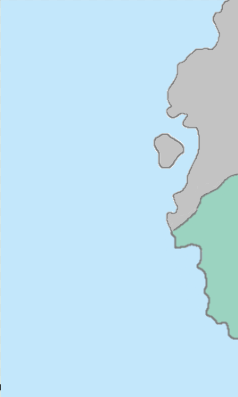
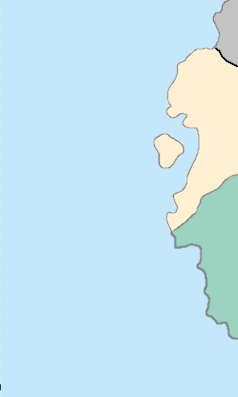
version beta 1.1

Changed region(s): [[0.7059, 0.1209, 1.0, 0.5743], [0.6471, 0.3325, 0.7647, 0.4232]]

diff --git a/pagechunk.js b/pagechunk.js
@@ -1,10 +1,15 @@
-'use strict';(function(){function r(a,c){c=10**c;return Math.round(a*c)/c}function x(a,c,e,h){b.lineWidth=3;b.strokeStyle="#000";b.beginPath();b.arc(a,c,7,0,2*Math.PI,!1);b.stroke();b.fill();if(e){b.font="15px Arial";e=b.measureText(h.g||"").width;e+=10;b.fillStyle="#fff";var n=.5*e;a=a-n-3.5;c-=48;b.fillRect(a,c+1,e,22);b.lineWidth=0;e=a+(n-3.5);n=c+22;var A=[[0,0],[10,0],[5,10]];b.beginPath();var y=0,p;for(p of A)0==y?b.moveTo(p[0]+e,p[1]+n):b.lineTo(p[0]+e,p[1]+n),y++;b.closePath();b.fill();b.fillStyle=
-"#000";b.fillText(h.g||"",a+5,c+2+11+2)}}function t(a,c){return{x:a*f-g.x+d.width/2,y:c*f-g.y+d.height/2}}const B=[{path:"map/mapmain.png",origin:{x:0,y:0},scale:1},{path:"map/mapexp2.png",origin:{x:-632,y:-213},scale:1.12},{path:"map/mapexp3.png",origin:{x:672,y:-217},scale:1.023},{path:"map/mapexp4.png",origin:{x:30,y:-675},scale:1},{path:"map/mapexp5.png",origin:{x:-576,y:289},scale:.5},{path:"map/mapexp6.png",origin:{x:-821,y:60},scale:1}],C=[{x:70,y:17,g:"furnacejesus"},{x:53,y:-28,g:"ilovefurnaces"},
-{x:-10,y:-97,g:"furnacemarx"},{x:109,y:119,g:"comradefurnace",i:!0},{x:-21,y:60,g:"F.P.D",j:!0},{x:-126,y:26,g:"capitalistfurnace"},{x:-122,y:-105,g:"invertedfurnace"},{x:-195,y:-34,g:"americanfurnace"},{x:-330,y:-108,g:"anvilleader"},{x:-470,y:-109,g:"i_eat_wii"},{x:-464,y:-183,g:"i_like_wii"},{x:-361,y:-263,g:"eminem_wii"},{x:-89,y:-221,g:"freezerpresident",i:!0},{x:64,y:-174,g:"fakefurnace"},{x:84,y:-108,g:"comicalylargefreezer"},{x:222,y:-64,g:"furnacekiller"},{x:199,y:35,g:"ikillfurnacesforfun"},
-{x:348,y:4,g:"antifurnacegroup"},{x:380,y:-92,g:"femboyfurnace"},{x:197,y:-146,g:"kawaiifurnace",i:!0},{x:201,y:260,g:"handsomefurnace"},{x:-56,y:382,g:"ThaiFurnace",j:!0},{x:-167,y:376,g:"iFurnace",j:!0},{x:-90,y:120,g:"iunfuckfurnaces"},{x:226,y:127,g:"iwillendfurnaces"},{x:-266,y:-476,g:"idownloadfurnaces"},{x:135,y:-200,g:"metalfurnace"},{x:-298,y:114,g:"dragonfurnace"},{x:96,y:-309,g:"freezersorcerer"},{x:-599,y:326,g:"eldritchfurnace"},{x:-824,y:85,g:"upsidedownfurnace",i:!0},{x:414,y:-48,g:"furnacekitty"}],D=[{x:-128,y:81,name:"West Burnin"},
-{x:22,y:-50,name:"East Burnin"},{x:-296,y:-184,name:"Forgehelm"},{x:-424,y:-228,name:"Wiiland"},{x:-21,y:-233,name:"Glacia"},{x:10,y:-332,name:"Coald Mines"},{x:282,y:7,name:"Pyraxis"},{x:202,y:-174,name:"Ignicis"},{x:0,y:-480,name:"Unclaimed Territories"},{x:-595,y:298,name:"Eldritch Tower"},{x:-834,y:49,name:"Furnacestralia"}],d=document.querySelector("#c"),E=document.querySelector(".cursor-pos"),u=document.querySelector("#fsi");if(null==d)console.error("Failed to get canvas!");else{var b=d.getContext("2d"),
-g={x:0,y:0},f=1,q=1/f,v=!1,k=0,l=0,z=[],m={x:null,y:null},w=!1;setInterval(function(){b.translate(.5,.5);d.width=document.documentElement.clientWidth;d.height=document.documentElement.clientHeight;d.style.position="absolute";d.style.left="0";d.style.top="0";b.fillStyle="#C3E7FB";b.fillRect(0,0,d.width,d.height);for(var a of z){var c=a.h.width*a.scale*f;const h=a.h.height*a.scale*f;b.drawImage(a.h,a.origin.x*f-c/2-g.x+d.width/2,a.origin.y*f-h/2-g.y+d.height/2,c,h)}E.innerText="Cursor Position: ("+
-r((k-d.width/2+g.x)*q,2)+", "+r((l-d.height/2+g.y)*q,2)+")";for(var e of D)a=e.name||"???",b.font="25px Arial",b.fillStyle="#000",b.strokeStyle="#fff",b.lineWidth=3,c=t(e.x-.5*b.measureText(a).width,e.y),b.strokeText(a,c.x,c.y),b.fillText(a,c.x,c.y);null!=m.x&&null!=m.y&&(b.strokeStyle="#000",b.fillStyle="#f00",e=t(m.x-3.5,m.y-3.5),x(e.x,e.y,u.checked||7>Math.sqrt((k-e.x)**2+(l-e.y)**2),{g:(m.j?"":"u/")+m.g}));for(const h of C)e=t(h.x-2.5,h.y-2.5),a=5>Math.sqrt((k-e.x)**2+(l-e.y)**2),b.fillStyle=
-h.i?a?"#ec0":"#fe0":a?"#090":"#0f0",x(e.x,e.y,u.checked||a,{g:(h.j?"":"u/")+h.g})},1E3/60);d.style.cursor="grab";d.addEventListener("mousedown",function(a){v=!0;k=a.clientX;l=a.clientY;d.style.cursor="grabbing";w&&(m.x=r((k-d.width/2+g.x)*q,2),m.y=r((l-d.height/2+g.y)*q,2),w=!1)});d.addEventListener("mousemove",function(a){if(v){const c=a.clientY-l;g.x+=-(a.clientX-k);g.y+=-c}k=a.clientX;l=a.clientY});d.addEventListener("mouseup",function(a){v=!1;k=a.clientX;l=a.clientY;d.style.cursor=
-"grab"});window.addEventListener("wheel",function(a){var c=.1*f;0<=a.wheelDelta&&10>f?f+=c:.15<f&&(f-=c);.15>=f?f=.16:10<=f?f=9.99:(q=1/f,g.x+=(k-d.width/2)*c,g.y+=(l-d.height/2)*c)});(function(){for(const a of B){const c={h:new Image,origin:a.origin,scale:a.scale};c.h.src=a.path;c.h.addEventListener("load",function(){console.log("Loaded image!")});z.push(c)}})();document.querySelector("#al").addEventListener("click",function(){const a=prompt("Enter you furnace name: ");alert("Click on a point where you want to set your location.");
-d.style.cursor="pointer";w=!0;m.g=a})}})();
+'use strict';(function(r,M,G){function H(b,c){c=10**c;return Math.round(b*c)/c}function z(b,c,e){if(!(0>=e.length)){a.beginPath();var h=0,d;for(d of e)0==h?a.moveTo(d[0]+b,d[1]+c):a.lineTo(d[0]+b,d[1]+c),h++;a.lineTo(e[0][0]+b,e[0][1]+c);a.closePath()}}function I(b,c,e,h){a.lineWidth=3;a.strokeStyle="#000";a.beginPath();a.arc(b,c,7,0,2*Math.PI,!1);a.stroke();a.fill();if(e){a.font="15px Arial";e=a.measureText(h.g||"").width;e+=10;a.fillStyle="#fff";const d=.5*e;b=b-d-3.5;c-=48;a.fillRect(b,c+1,e,22);
+a.lineWidth=0;z(b+(d-3.5),c+22,[[0,0],[10,0],[5,10]]);a.fill();a.fillStyle="#000";a.fillText(h.g||"",b+5,c+2+11+2)}}function t(b,c){return{x:(b-m.x)*k+f.width/2,y:(c-m.y)*k+f.height/2}}function A(b,c){return{x:(b-f.width/2)*x+m.x,y:(c-f.height/2)*x+m.y}}const N=[{path:"map/mapmain.png",origin:{x:0,y:0},scale:1},{path:"map/mapexp2.png",origin:{x:-632,y:-213},scale:1.12},{path:"map/mapexp3.png",origin:{x:672,y:-217},scale:1.023},{path:"map/mapexp4.png",origin:{x:30,y:-675},scale:1},{path:"map/mapexp5.png",
+origin:{x:-576,y:289},scale:.5},{path:"map/mapexp6.png",origin:{x:-821,y:60},scale:1}],O=[{x:70,y:17,g:"furnacejesus"},{x:53,y:-28,g:"ilovefurnaces"},{x:-10,y:-97,g:"furnacemarx"},{x:109,y:119,g:"comradefurnace",i:!0},{x:-21,y:60,g:"F.P.D",j:!0},{x:-126,y:26,g:"capitalistfurnace"},{x:-122,y:-105,g:"invertedfurnace"},{x:-195,y:-34,g:"americanfurnace"},{x:-330,y:-108,g:"anvilleader"},{x:-470,y:-109,g:"i_eat_wii"},{x:-464,y:-183,g:"i_like_wii"},{x:-361,y:-263,g:"eminem_wii"},{x:-89,y:-221,g:"freezerpresident",
+i:!0},{x:64,y:-174,g:"fakefurnace"},{x:84,y:-108,g:"comicalylargefreezer"},{x:222,y:-64,g:"furnacekiller"},{x:199,y:35,g:"ikillfurnacesforfun"},{x:348,y:4,g:"antifurnacegroup"},{x:380,y:-92,g:"femboyfurnace"},{x:197,y:-146,g:"kawaiifurnace",i:!0},{x:201,y:260,g:"handsomefurnace"},{x:-56,y:382,g:"ThaiFurnace",j:!0},{x:-167,y:376,g:"iFurnace",j:!0},{x:-90,y:120,g:"iunfuckfurnaces"},{x:226,y:127,g:"iwillendfurnaces"},{x:135,y:-200,g:"metalfurnace"},{x:-298,y:114,g:"dragonfurnace"},{x:96,y:-309,g:"freezersorcerer"},
+{x:-599,y:326,g:"eldritchfurnace"},{x:-824,y:85,g:"upsidedownfurnace",i:!0},{x:414,y:-48,g:"furnacekitty"},{x:-266,y:-476,u:"idownloadfurnaces"}],P=[{x:-128,y:81,name:"West Burnin"},{x:22,y:-50,name:"East Burnin"},{x:-296,y:-184,name:"Forgehelm"},{x:-424,y:-228,name:"Wiiland"},{x:-21,y:-233,name:"Glacia"},{x:10,y:-332,name:"Coald Mines"},{x:282,y:7,name:"Pyraxis"},{x:202,y:-174,name:"Ignicis"},{x:0,y:-480,name:"Unclaimed Territories"},{x:-595,y:298,name:"Eldritch Tower"},{x:-834,y:49,name:"Furnacestralia"},
+{x:-1E4,y:-1E4,name:"Nothing here..."},{x:-2E4,y:-2E4,name:"Try to guess my main"},{x:-3E4,y:-3E4,name:"Have a guess?"},{x:-4E4,y:-4E4,name:"ok."},{x:-5E4,y:-5E4,name:"it is..."}],Q=[{x:-799,y:44,name:"New Furnace",m:1,l:!0},{x:-538,y:-281,name:"West Camp 1",m:1},{x:-265,y:-472,name:"Download Village",m:1}],R=[{x:-522,y:-312,name:"West territories",size:10,o:60},{x:-411,y:-700,name:"Freezepoint Sea",size:14,o:-15},{x:-245,y:-482,name:"Charcoal Lake",size:7}];"beta 1.1"!=G.getItem("last_update")&&
+alert("New Version beta 1.1! This update fixed map panning / zoom and added the ability to display towns and terrain labels for things suck as territories and oceans.");G.setItem("last_update","beta 1.1");const f=r.querySelector("#c"),S=r.querySelector(".cursor-pos"),J=r.querySelector("#fsi");if(null==f)console.error("Failed to get canvas!");else{var a=f.getContext("2d"),m={x:0,y:0},k=1,x=1/k,B=!1,p=0,q=0,K=[],u={x:null,y:null},C=!1,D=[],E=!1;r.querySelector("#cr").addEventListener("click",function(){E=
+!0;D=[]});r.querySelector("#se").addEventListener("input",function(){r.querySelector(".editor-box").style.display=this.checked?"block":"none"});var v={x:0,y:0};setInterval(function(){a.translate(.5,.5);f.width=r.documentElement.clientWidth;f.height=r.documentElement.clientHeight;f.style.position="absolute";f.style.left="0";f.style.top="0";a.fillStyle="#C3E7FB";a.fillRect(0,0,f.width,f.height);for(var b of K){var c=b.h.width*b.scale,e=b.h.height*b.scale,h=t(b.origin.x-c/2,b.origin.y-e/2);a.drawImage(b.h,
+h.x,h.y,c*k,e*k)}S.innerText="Cursor Position: ("+H(v.x,2)+", "+H(v.y,2)+")";for(var d of R)a.font=`bold ${d.size*k}px Arial`,b=a.measureText(d.name),c=b.actualBoundingBoxAscent+b.actualBoundingBoxDescent,a.fillStyle="#000",a.globalAlpha=.25,e=t(d.x,d.y),a.save(),a.translate(e.x,e.y),a.rotate(d.o*Math.PI/180),a.fillText(d.name,-b.width/2,-c/2),a.restore(),a.globalAlpha=1;for(var g of Q){d=t(g.x,g.y);a:{b=[10**6,1E5,5E4,1E4];c=4;for(var y of b){if(g.m>=b[c])break a;c--}c=0}b=10*(1+.2*c);if(g.l||!(x/
+10>c/4+.25)){if(g.l)c=4,b=18,a.strokeStyle="#000",a.fillStyle="#fff",e=b/5,h=b/4,z(d.x,d.y,[[2*h,0*e],[3*h,2*e],[4*h,2*e],[3*h,3*e],[4*h,5*e],[2*h,4*e],[0*h,5*e],[1*h,3*e],[0*h,2*e],[1*h,2*e]]),a.lineWidth=2,a.fill(),a.stroke();else switch(c){case 0:a.fillStyle="#000";a.fillRect(d.x,d.y,b,b);break;case 1:a.fillStyle="#000";a.s();a.arc(d.x,d.y,b,0,2*Math.PI);a.fill();break;case 2:a.strokeStyle="#000";a.fillStyle="#fff";a.s();a.arc(d.x,d.y,b,0,2*Math.PI);a.lineWidth=2;a.fill();a.stroke();break;case 3:a.fillStyle=
+"#000",e=[[.5*b,0],[b,b],[0,b]],a.strokeStyle="#000",a.fillStyle="#fff",z(d.x,d.y,e),a.lineWidth=2,a.fill(),a.stroke()}!g.l&&x/10>c/4+.025||(a.fillStyle="#000",a.strokeStyle="#fff",c=12*(1+.1*c),a.font=`${c}px Arial`,a.strokeText(g.name,d.x+b+5,d.y+c),a.fillText(g.name,d.x+b+5,d.y+c))}}for(var l of P)g=l.name||"???",a.font="25px Arial",a.fillStyle="#000",a.strokeStyle="#fff",a.lineWidth=3,y=t(l.x-.5*a.measureText(g).width,l.y),a.strokeText(g,y.x,y.y),a.fillText(g,y.x,y.y);null!=u.x&&null!=u.y&&(a.strokeStyle=
+"#000",a.fillStyle="#f00",l=t(u.x-3.5,u.y-3.5),I(l.x,l.y,J.checked||7>Math.sqrt((p-l.x)**2+(q-l.y)**2),{g:(u.j?"":"u/")+u.g}));for(var n of O)l=t(n.x-2.5,n.y-2.5),g=5>Math.sqrt((p-l.x)**2+(q-l.y)**2),a.fillStyle=n.i?g?"#ec0":"#fe0":g?"#090":"#0f0",I(l.x,l.y,J.checked||g,{g:(n.j?"":"u/")+n.g});if(E&&(n=D,!(0>=n.length))){l=0;a.beginPath();for(var w of n)if(g=t(w.x,w.y),"object"==typeof g){switch(l){case 0:a.moveTo(g.x,g.y);break;default:a.lineTo(g.x,g.y)}l++}w=t(n[0].x,n[0].y);a.lineTo(w.x,w.y);a.strokeStyle=
+"#0a0";a.fillStyle="#0f0";a.lineWidth=3;a.lineCap="round";a.stroke();a.globalAlpha=.25;a.fill();a.closePath();a.globalAlpha=1;a.fillStyle="#0b0";for(const L of n)w=t(L.x,L.y),a.beginPath(),a.arc(w.x,w.y,5,0,2*Math.PI,!1),a.fill()}},1E3/60);f.style.cursor="grab";var F=!1;f.addEventListener("keydown",function(b){switch(b.key.toLowerCase()){case "shift":F=!0}});f.addEventListener("keyup",function(b){switch(b.key.toLowerCase()){case "shift":F=!1}});f.addEventListener("mousedown",function(b){p=b.clientX;
+q=b.clientY;v=A(p,q);f.style.cursor="grabbing";E&&!F?D.push({x:v.x,y:v.y}):B=!0;C&&(u=v,C=!1)});f.addEventListener("mousemove",function(b){if(B){const c=b.clientY-q;m.x+=-(b.clientX-p)*x;m.y+=-c*x}p=b.clientX;q=b.clientY;v=A(p,q)});f.addEventListener("mouseup",function(b){B=!1;p=b.clientX;q=b.clientY;v=A(p,q);f.style.cursor="grab"});M.addEventListener("wheel",function(b){var c=.1*k;0<=b.wheelDelta&&10>k?k+=c:.15<k&&(k+=-1*c);x=1/k;.15>=k?k=.16:10<=k?k=9.99:(m.x+=.1*(p-f.width/2),m.y+=.1*(q-f.height/
+2))});(function(){for(const b of N){const c={h:new Image,origin:b.origin,scale:b.scale};c.h.src=b.path;c.h.addEventListener("load",function(){console.log("Loaded image!")});K.push(c)}})();r.querySelector("#al").addEventListener("click",function(){const b=prompt("Enter you furnace name: ");alert("Click on a point where you want to set your location.");f.style.cursor="pointer";C=!0;u.g=b})}})(document,window,null);

diff --git a/index.html b/index.html
@@ -10,16 +10,23 @@
             <!--<label>Show position grid: </label>
             <input type='checkbox' id='spg'>-->
             <label>Show all furnaces: </label>
-            <input type='checkbox' id='fsi'>
-            <button id='al'>Set Location (still working on)</button>
-            <!--<button id='cr' onclick='alert("Coming soon!")'>Create New Region</button>
-            <button id='expb' onclick='alert("Coming soon!")'>Export changes</button>-->
-            <input class="export-output">
-            <center>
+            <input type='checkbox' id='fsi'><br>
+            <label>Show editor: </label>
+            <input type='checkbox' id='se'>
+            <center style='margin: 10px;'>
                 <img src='maptitle.png'>
             </center>
         </div>
-        <pre class='bottom-stuff'>Programmed by u/UpsidedownFurnace | map version: beta 1.0</pre>
+        <div class='editor-box'>
+            <center>
+                <h3>Map Editor</h3>
+            </center>
+            <button id='al'>Set Location</button><br>
+            <button id='cr' onclick='alert("Coming soon!")'>Create New Region</button><br>
+            <button id='expb' onclick='alert("Coming soon!")'>Export changes</button><br>
+            <textarea class="export-output" placeholder="export output"></textarea>
+        </div>
+        <pre class='bottom-stuff'>Programmed by u/UpsidedownFurnace | map version: beta 1.1</pre>
         <canvas id='c'></canvas>
         <!--<script src='dat.js'></script>
         <script src='map.js'></script>-->

diff --git a/page.css b/page.css
@@ -11,7 +11,7 @@
     border-bottom: 1px solid rgb(150, 100, 40);*/
     padding: 10px;
     width: 100%;
-    height: 75px;
+    height: 100px;
     font-family:'Segoe UI', Tahoma, Geneva, Verdana, sans-serif, Times, serif;
     background: linear-gradient(rgba(0,0,0,0.25), rgba(0,0,0,0));
     font-size: 25px;
@@ -25,4 +25,16 @@
     left: 0;
     color: #000;
     z-index: 2;
+}
+
+.editor-box {
+    background: #fff;
+    border: 1px solid #999;
+    position: fixed;
+    right: 0;
+    top: 0;
+    padding: 5px;
+    z-index: 2;
+    font-family:'Segoe UI', Tahoma, Geneva, Verdana, sans-serif;
+    display: none;
 }
